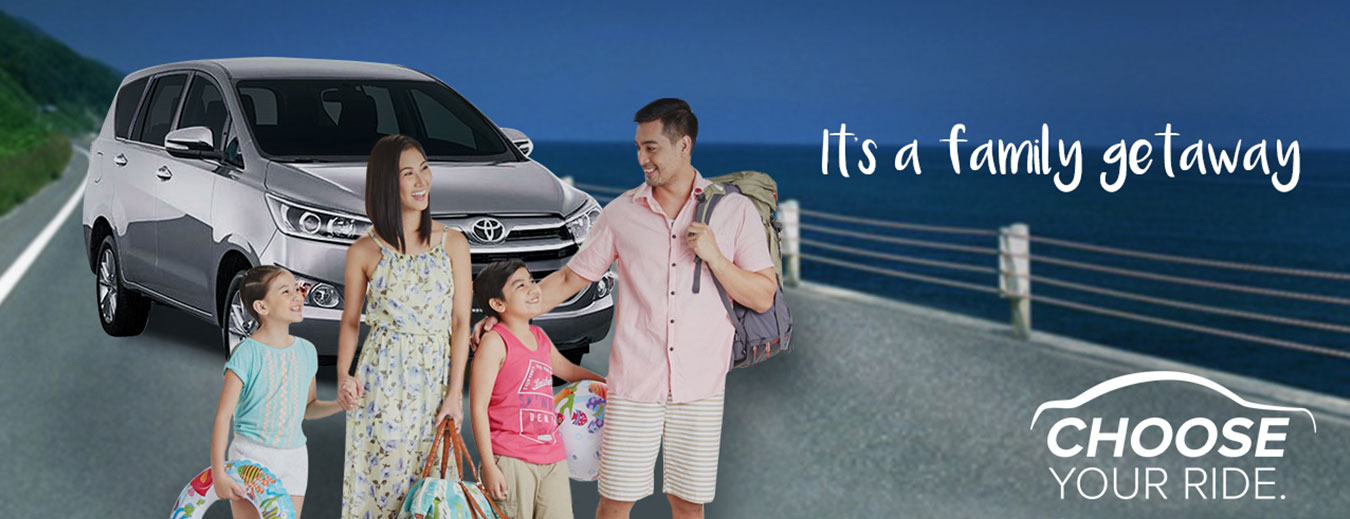
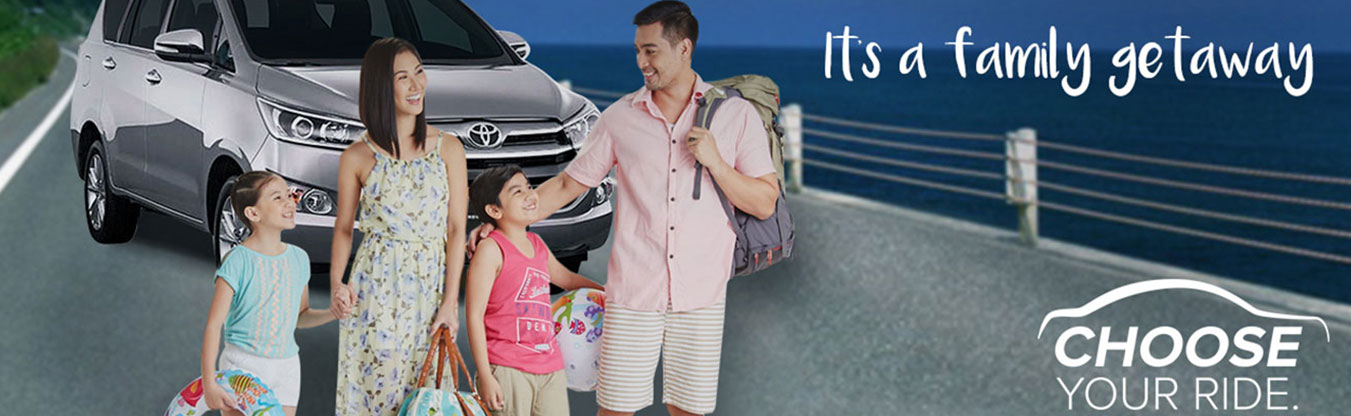
modified homepage

diff --git a/index.php b/index.php
@@ -117,7 +117,7 @@ include "module.inc";
         </div>
 
         <div class="item">
-          <img src="images/homepage-carousel-2.jpg" alt="Chicago">
+          <img src="images/background-full-home.jpg" alt="Chicago">
         </div>
 
         <div class="item">
